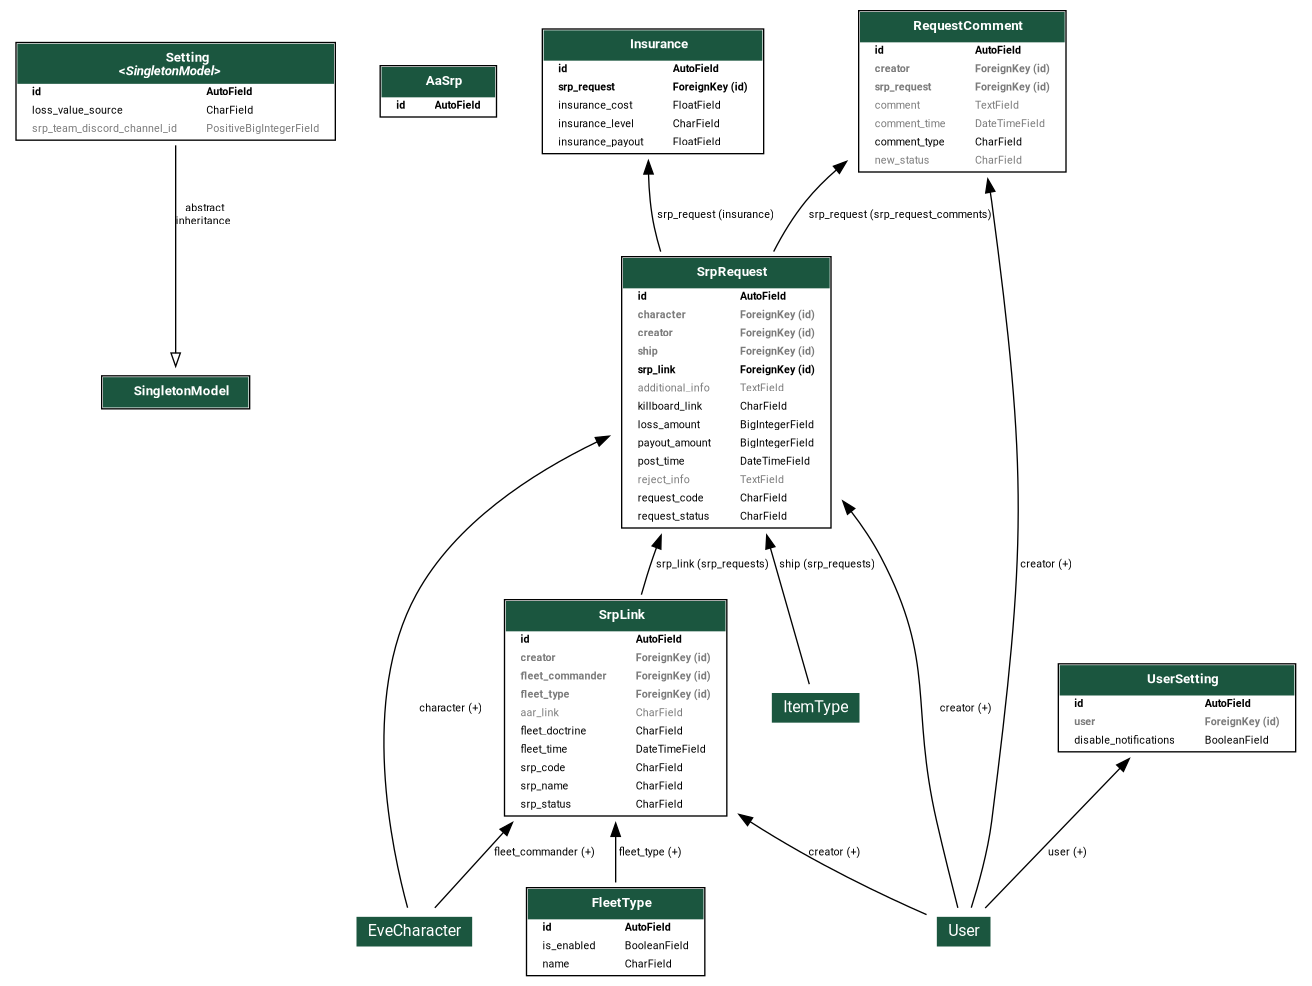
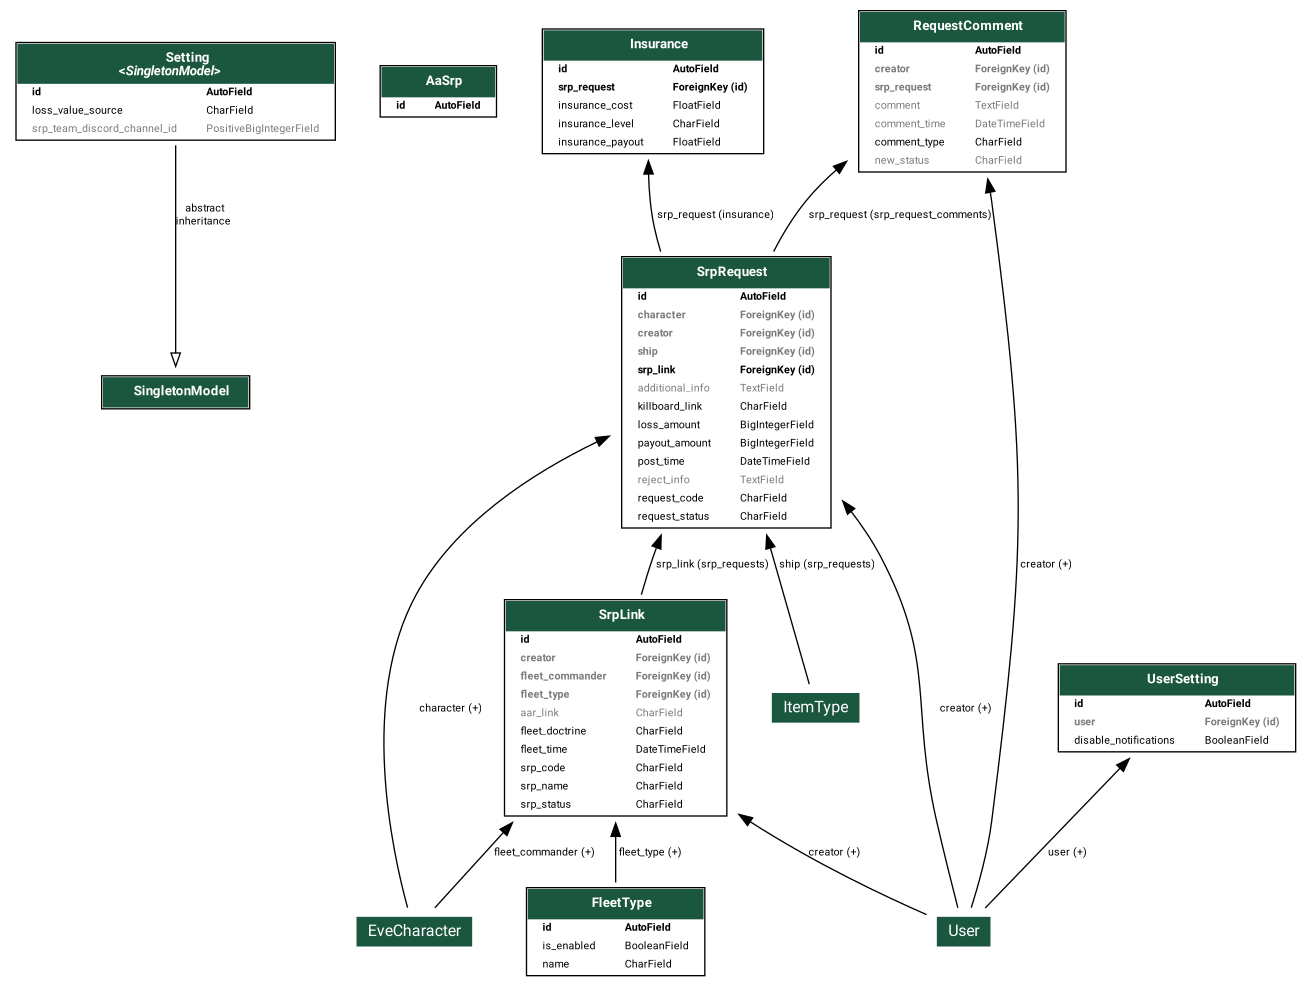
Merge pull request #485 from ppfeufer/release/v4.4.0
[RELEASE] v4.4.0

Pull request: [RELEASE] v4.4.0
## [4.4.0] - 2026-06-02

### Fixed

- Grammar - No space before ellipsis

### Changed

- Modular providers
- Translations updated

diff --git a/aasrp/__init__.py b/aasrp/__init__.py
@@ -6,7 +6,7 @@ This module defines metadata and constants for the Ship Replacement Program (SRP
 # Django
 from django.utils.translation import gettext_lazy as _
 
-__version__ = "4.3.0"
+__version__ = "4.4.0"
 __title__ = "Ship Replacement"
 __title_translated__ = _("Ship Replacement")
 __verbose_name__ = "Ship Replacement (SRP) for Alliance Auth"

diff --git a/README.md b/README.md
@@ -120,7 +120,7 @@ Make sure you're in the virtual environment (venv) of your Alliance Auth
 installation Then install the latest release directly from PyPi.
 
 ```shell
-pip install aa-srp==4.3.0
+pip install aa-srp==4.4.0
 ```
 
 #### Step 2: Configure Alliance Auth<a name="step-2-configure-alliance-auth"></a>
@@ -183,7 +183,7 @@ Restart your supervisor services for Auth
 Add the app to your `conf/requirements.txt`
 
 ```requirements
-aa-srp==4.3.0
+aa-srp==4.4.0
 ```
 
 #### Step 2: Update Your AA Settings<a name="step-2-update-your-aa-settings"></a>
@@ -309,7 +309,7 @@ To update your existing installation of AA SRP, first enable your virtual enviro
 Then run the following command to update AA SRP to the latest version.
 
 ```shell
-pip install aa-srp==4.3.0
+pip install aa-srp==4.4.0
 
 python manage.py collectstatic
 python manage.py migrate
@@ -325,7 +325,7 @@ To update your existing installation of AA SRP, first update the version in your
 `conf/requirements.txt` to the latest version.
 
 ```requirements
-aa-srp==4.3.0
+aa-srp==4.4.0
 ```
 
 Then build your Auth container and restart your containers.

diff --git a/CHANGELOG.md b/CHANGELOG.md
@@ -43,6 +43,8 @@ Section Order:
 
 <!-- Your changes go here -->
 
+## [4.4.0] - 2026-06-02
+
 ### Fixed
 
 - Grammar - No space before ellipsis
@@ -50,6 +52,7 @@ Section Order:
 ### Changed
 
 - Modular providers
+- Translations updated
 
 ## [4.3.0] - 2026-05-06
 
@@ -1775,11 +1778,12 @@ python manage.py aasrp_update_db_relations
 [4.2.2]: https://github.com/ppfeufer/aa-srp/compare/v4.2.1...v4.2.2 "v4.2.2"
 [4.2.3]: https://github.com/ppfeufer/aa-srp/compare/v4.2.2...v4.2.3 "v4.2.3"
 [4.3.0]: https://github.com/ppfeufer/aa-srp/compare/v4.2.3...v4.3.0 "v4.3.0"
+[4.4.0]: https://github.com/ppfeufer/aa-srp/compare/v4.3.0...v4.4.0 "v4.4.0"
 [aa discord notify]: https://gitlab.com/ErikKalkoken/aa-discordnotify "AA Discord Notify"
 [aa fleet pings]: https://github.com/ppfeufer/aa-fleetpings "AA Fleet Pings"
 [aa-discordbot]: https://github.com/pvyParts/allianceauth-discordbot "AA-Discordbot"
 [evetools killboard]: https://kb.evetools.org/ "EveTools Killboard"
-[in development]: https://github.com/ppfeufer/aa-srp/compare/v4.3.0...HEAD "In Development"
+[in development]: https://github.com/ppfeufer/aa-srp/compare/v4.4.0...HEAD "In Development"
 [keep a changelog]: http://keepachangelog.com/ "Keep a Changelog"
 [semantic versioning]: http://semver.org/ "Semantic Versioning"
 [tooltip: change srp payout amount]: https://raw.githubusercontent.com/ppfeufer/aa-srp/master/docs/images/tooltip-change-srp-payout-amount.png "Tooltip: Change SRP Payout Amount"